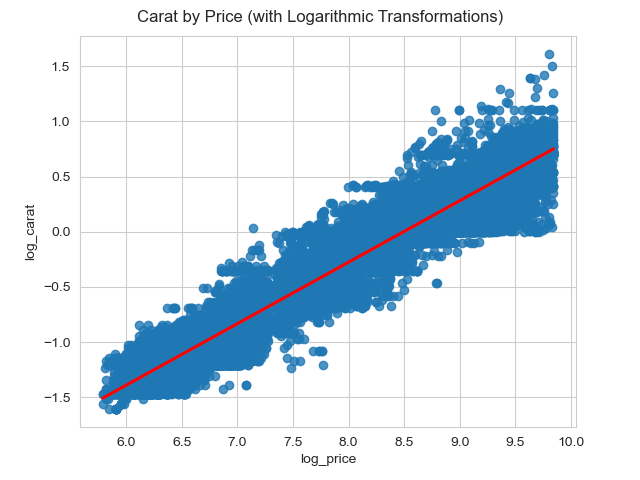
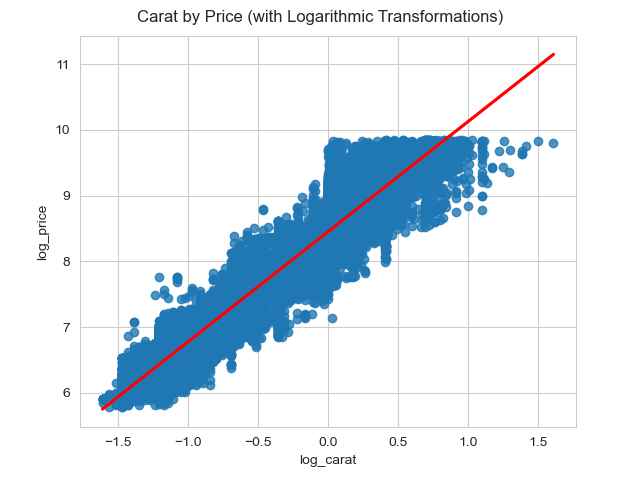
HW3 Update

diff --git a/hw3_diamonds.py b/hw3_diamonds.py
@@ -8,7 +8,7 @@ import seaborn as sns
 
 df = pd.read_csv('diamonds.csv');
 
-#f = df.plot.scatter("price", "carat")
+#f = df.plot.scatter("carat", "price")
 #fig = f.get_figure()
 #f.get_figure().savefig('figs/Q1_Relationship of carat vs price')
 
@@ -26,7 +26,7 @@ df['log_carat'] = df['carat'].transform(log_function)
 # Show a scatterplot that visualizes the relationship between carat and price
 sns.set_style("whitegrid")
 #reg = sns.regplot(data=df,x='log_price', y='log_carat', line_kws={'color': 'red'}, scatter_kws={'alpha':0.005})
-reg = sns.regplot(data=df,x='log_price', y='log_carat', line_kws={'color': 'red'})
+reg = sns.regplot(data=df,x='log_carat', y='log_price', line_kws={'color': 'red'})
 
 # Title and save
 fig = reg.get_figure()
@@ -37,7 +37,7 @@ reg.get_figure().savefig('figs/Q2_Log_Transformed_Carat_by_Price')
 
 #Q1 Plot
 
-f = df.plot.scatter("price", "carat")
+f = df.plot.scatter("carat", "price")
 fig = f.get_figure()
 f.get_figure().savefig('figs/Q1_Relationship of carat vs price')
 
@@ -46,8 +46,8 @@ f.get_figure().savefig('figs/Q1_Relationship of carat vs price')
 from sklearn.metrics import explained_variance_score
 import statsmodels.api as sm
 
-X = df[['log_price']].copy() # Double square brackets returns the single column dataframe
-y = df['log_carat'].copy() # Will be a numpy type array
+X = df[['log_carat']].copy() # Double square brackets returns the single column dataframe
+y = df['log_price'].copy() # Will be a numpy type array
 
 # Fit regression model
 results = sm.OLS(y, X).fit()
@@ -69,10 +69,11 @@ from sklearn.model_selection import cross_val_score
 print(cross_val_score(linear_regression, X, y, cv=10, scoring="explained_variance").mean())
 
 
-X1 = df['price']
-y1 = df['carat']
+X1 = df['carat']
+y1 = df['price']
 
 results1 = sm.OLS(y1, X1).fit()
+print(results.summary())
 y_pred1 = results.predict(X1)
 explained_variance_score(y_pred1, y1)
 
@@ -100,35 +101,15 @@ from sklearn.model_selection import train_test_split
 X_train, X_test, y_train, y_test = train_test_split(X, y, test_size = 0.3, random_state = 0)
 
 
-results1 = sm.OLS(y_train1, X_train1).fit()
+# For sklearn.model_selection.train_test_split:
+results = sm.OLS(y_train, X_train).fit() 
+# Inspect the results and inspect R squared to comment on explained variance
+print(results.summary())
 
+# Using simple_train_test_split:
+results1 = sm.OLS(y_train1, X_train1).fit()
 # Inspect the results and inspect R squared to comment on explained variance
 print(results1.summary())
 
 
-results2 = sm.OLS(y_train, X_train).fit()
-
-# Inspect the results and inspect R squared to comment on explained variance
-print(results2.summary())
-
-
-array = np.array(X_train)
-  
-# creating a list of index names
-
-index_values = [0]*37758
-
-for i in range(0,37758):
-    index_values[i]=i
-    
-# creating a list of column names
-column_values = ['carat']
-
-
-df = pd.DataFrame(data = array, 
-                  index = index_values, 
-                  columns = column_values)
-
-
-df['price'] = y_train
 
